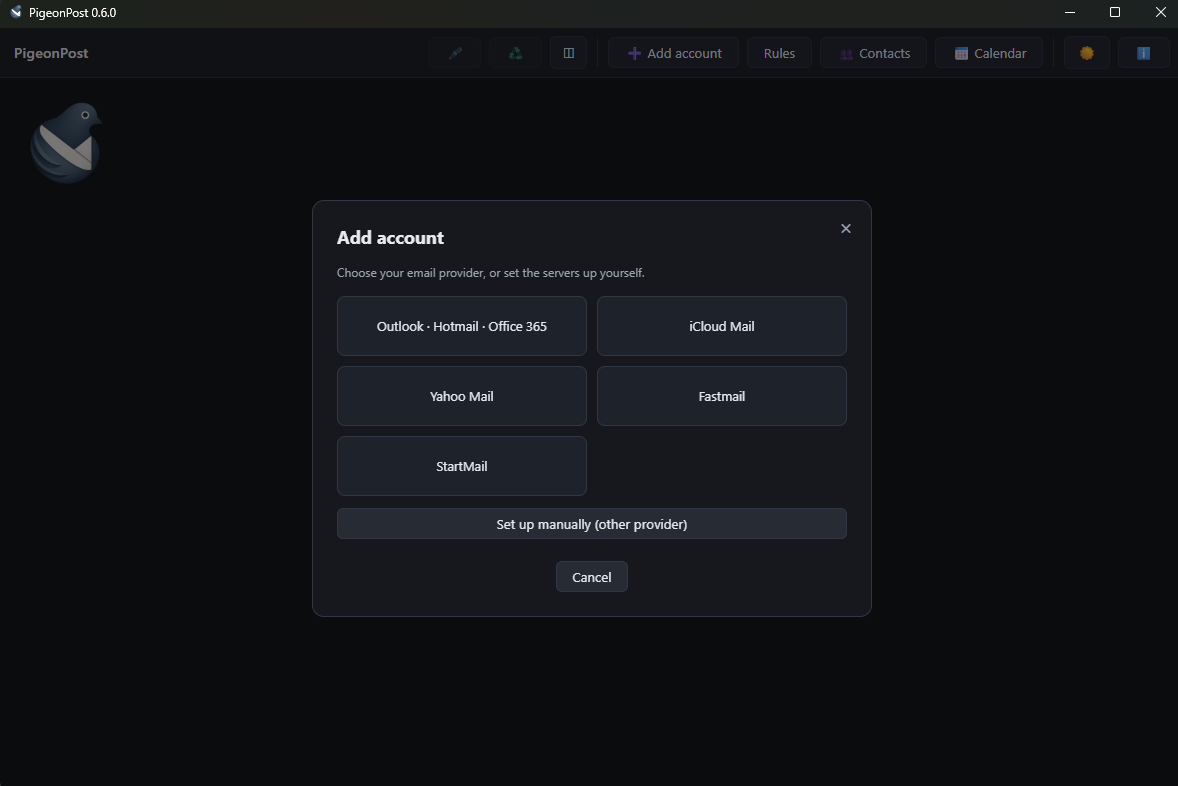
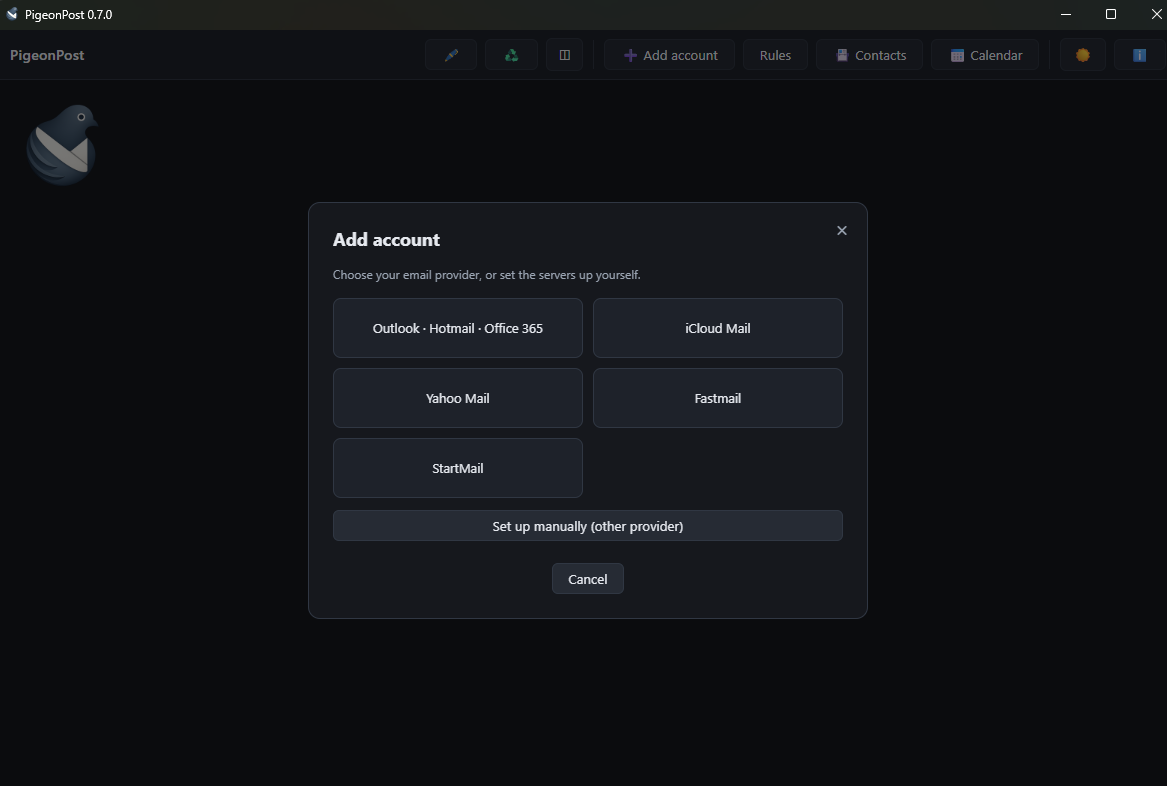
docs: refresh the gh-pages screenshot for 0.7.0
Replace the site screenshot with a freshly captured 0.7.0 window (the
Add account provider chooser, toolbar showing Contacts and Calendar) and
update its alt text.

diff --git a/docs/index.html b/docs/index.html
@@ -261,7 +261,7 @@
     <section class="shot">
         <div class="shot-frame">
             <img src="screenshots/screenshot1.png"
-                 alt="PigeonPost in dark mode showing the account setup screen: choose a provider (Outlook, iCloud, Yahoo, Fastmail or StartMail) or set the servers up manually."/>
+                 alt="PigeonPost 0.7.0 in dark mode: the Add account provider chooser (Outlook, iCloud, Yahoo, Fastmail or StartMail, or a manual setup) over the main window, whose toolbar now includes Contacts and Calendar."/>
         </div>
     </section>
 